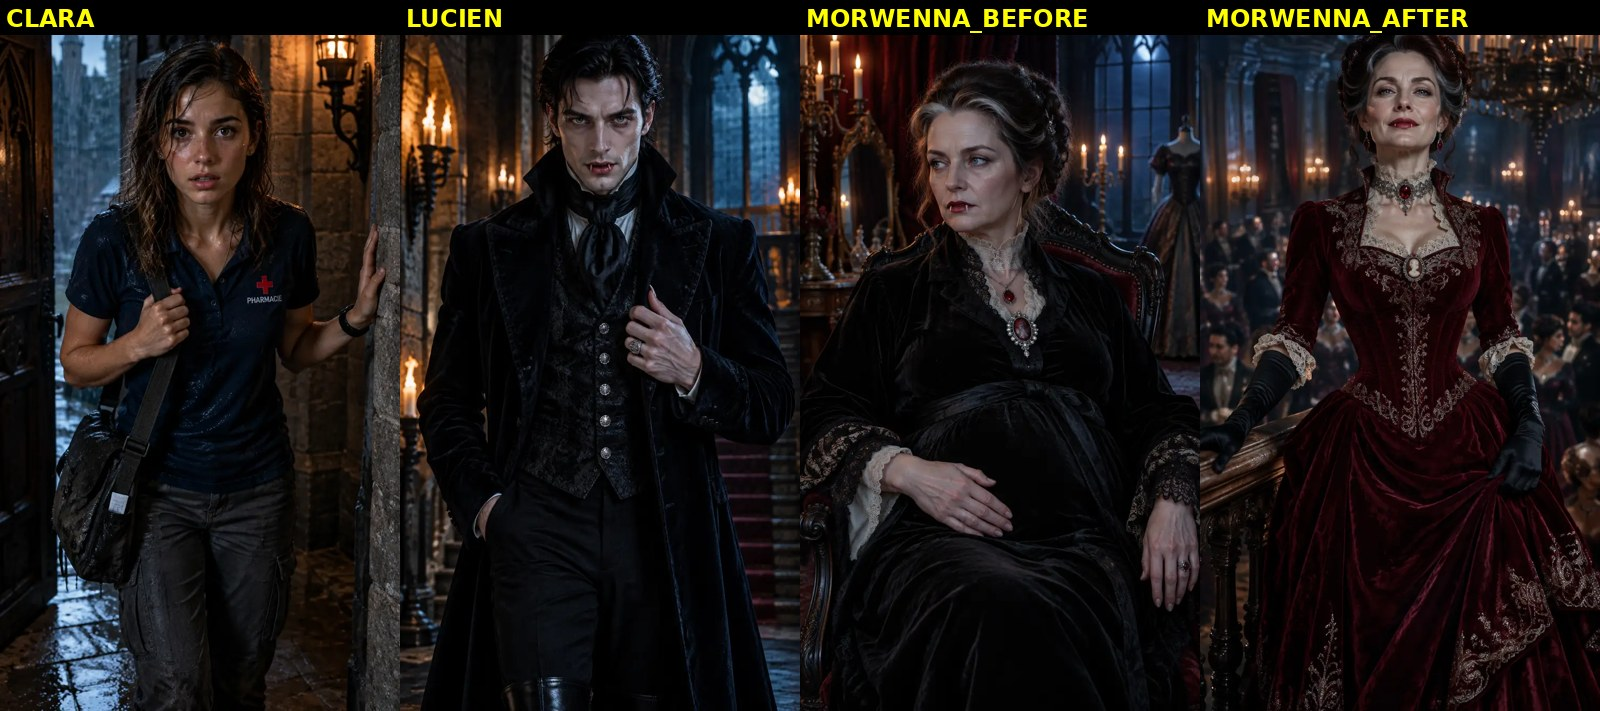
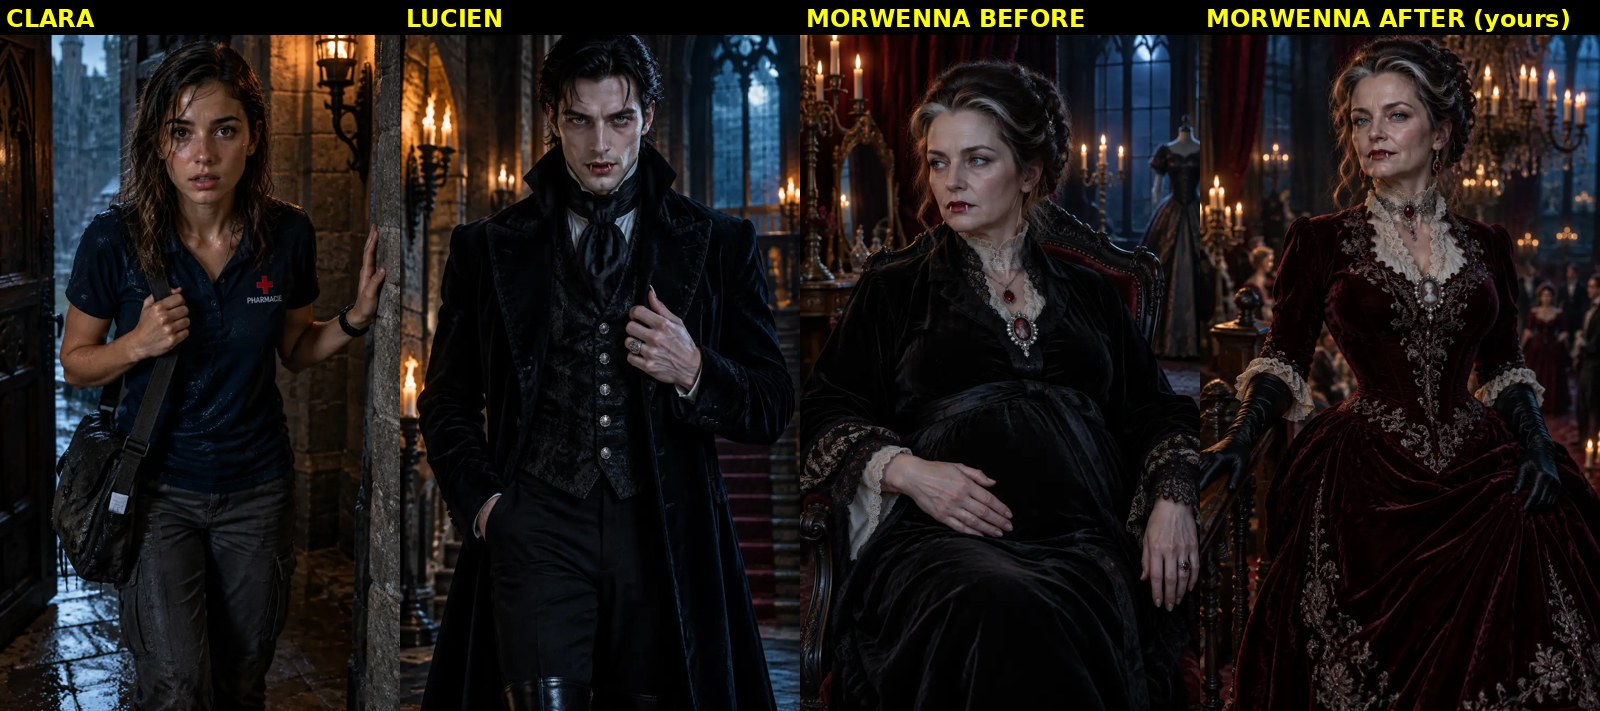
ORA vampire drama: Morwenna After = user's redo
Claude-Session: https://claude.ai/code/session_01B91YnQnevLKqPhwBUBVUWL

Changed region(s): [[0.75, 0.0, 1.0, 1.0], [0.5938, 0.0, 0.6875, 0.0619]]

diff --git a/projects/ora-vampire-drama/characters.md b/projects/ora-vampire-drama/characters.md
@@ -5,4 +5,4 @@
 | CLARA | Clara Moreau, The Mortal | 30de8625-55d3-4f4d-a96d-929482184956 |
 | LUCIEN | Count Lucien Devereux, The Count | 769f78d9-e13d-4504-b56a-d1362f6d019d |
 | MORWENNA BEFORE | Countess Morwenna Devereux, The Countess | 1720b79a-1a5b-4b77-ab4e-7fdeb2118469 |
-| MORWENNA AFTER | same | 222746ce-0baf-4f9c-8617-9331bce45406 |
+| MORWENNA AFTER | same | ac3d5cb8-c27f-46c8-b5e6-9e9baac84bc3 (user redo with Before as ref; replaces 222746ce) |
